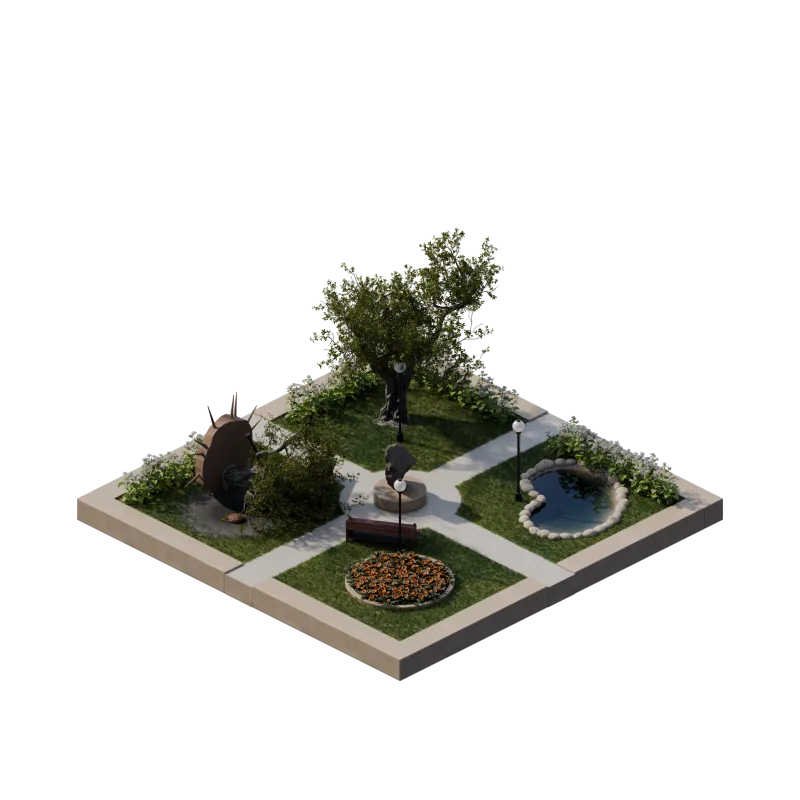
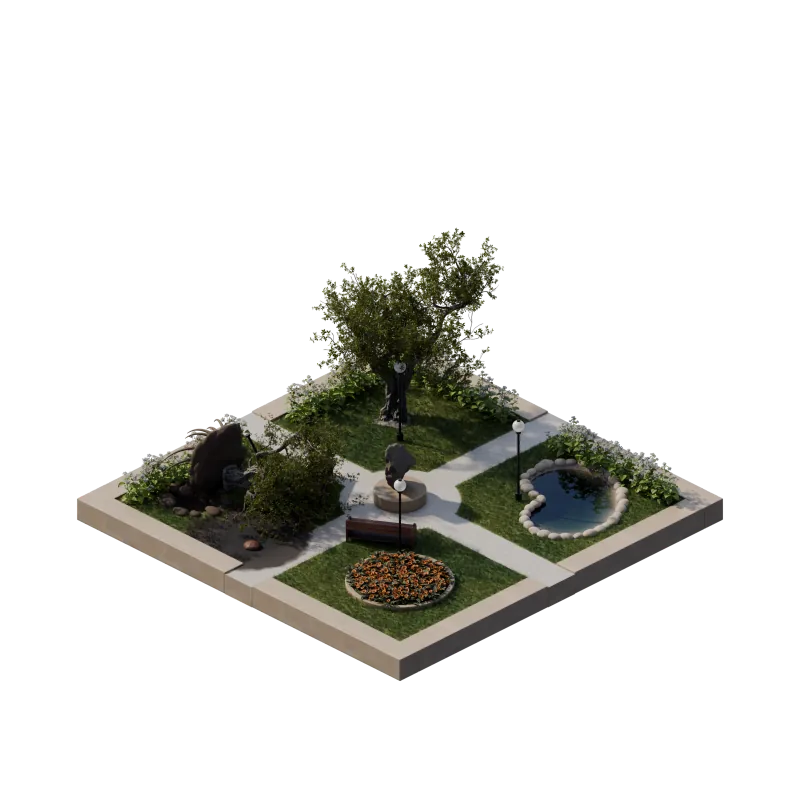
fix(C1): Park damaged — a ragged root mass, the hole it tore, a burn that chars the grass
- the root plate was a spiked disc: now a lumpy slab of dark soil stood up behind
  the trunk, nine roots that trail out from its rim and droop, tapering to a point,
  clods fallen round its foot
- the hole is cut out of the lawn in front of it, a dark bowl with a lip of soil
- the burn chars the lawn and its grass blades themselves (brown toward the
  edge, black at the heart, ragged), the soot decal is near-black, not grey ash
Re-rendered damaged (day, dusk, glow) at 256 samples.

Changed region(s): [[0.1875, 0.5, 0.4062, 0.7188], [0.625, 0.625, 0.6562, 0.6562]]

diff --git a/design/art/colony/park.py b/design/art/colony/park.py
@@ -38,7 +38,8 @@ RIM_TOP = 0.05  # the paved rim stands a kerb's height above the lawn, so the la
 LH = SPEC["lamps"]["height"]
 GR = 0.16
 FALLEN = 1  # the 4.2 m tree, front left: in `damaged` it lies across the south path
-SCORCH = (-2.6, -3.6, 1.7)  # x, y, r of the burn beside its root, on open lawn where the camera sees it
+SCORCH = (-1.3, -4.3, 1.9)  # x, y, r of the burn on open lawn in front of the fallen tree, where the camera sees it
+HOLE = (-3.8, -3.75, 0.7)  # x, y, r of the hole the root mass tore out of the lawn
 
 
 # ---------- layout geometry (shared by mesh, hair and shader) ----------
@@ -77,8 +78,29 @@ def bed_r(x, y):
 
 # ---------- materials ----------
 
-def grass_color(nt, P, state):
-    """Two photo lawns blended by a slow noise, patchy brightness, faint mowing stripes. Dry: toward straw."""
+def burn_mask(nt, P, burn):
+    """1 at the heart of a burn, 0 outside it, with a noise-ragged edge; from the shading point's distance in x, y."""
+    sep = node(nt, "ShaderNodeSeparateXYZ")
+    link(nt, P, sep.inputs[0])
+    dx, dy = math_(nt, "SUBTRACT", sep.outputs["X"], burn[0]), math_(nt, "SUBTRACT", sep.outputs["Y"], burn[1])
+    d = math_(nt, "DIVIDE", math_(nt, "SQRT", math_(nt, "ADD", math_(nt, "MULTIPLY", dx, dx), math_(nt, "MULTIPLY", dy, dy))), burn[2])
+    nz = node(nt, "ShaderNodeTexNoise")
+    nz.inputs["Scale"].default_value = 1.6
+    nz.inputs["Detail"].default_value = 6
+    link(nt, P, nz.inputs["Vector"])
+    d = math_(nt, "ADD", d, math_(nt, "MULTIPLY", math_(nt, "SUBTRACT", nz.outputs["Fac"], 0.5), 0.7))
+    mr = node(nt, "ShaderNodeMapRange")
+    mr.inputs["From Min"].default_value = 0.45
+    mr.inputs["From Max"].default_value = 1.0
+    mr.inputs["To Min"].default_value = 1.0
+    mr.inputs["To Max"].default_value = 0.0
+    link(nt, d, mr.inputs["Value"])
+    return mr.outputs[0]
+
+
+def grass_color(nt, P, state, burn=None):
+    """Two photo lawns blended by a slow noise, patchy brightness, faint mowing stripes. Dry: toward straw.
+    burn (x, y, r): the grass scorched brown toward the edge and black at the heart."""
     m1 = node(nt, "ShaderNodeMapping")
     m1.inputs["Scale"].default_value = (1 / 1.5, 1 / 1.5, 1)
     link(nt, P, m1.inputs["Vector"])
@@ -114,6 +136,10 @@ def grass_color(nt, P, state):
     c = mix(nt, 1.0, c, kk.outputs[0], "MULTIPLY")
     if state == "dry":  # unwatered for months: straw with green only in the damp patches
         c = mix(nt, math_(nt, "ADD", math_(nt, "MULTIPLY", ramp.outputs[0], 0.25), 0.62), c, (0.36, 0.29, 0.15, 1))
+    if burn:
+        k = burn_mask(nt, P, burn)
+        c = mix(nt, math_(nt, "MINIMUM", math_(nt, "MULTIPLY", k, 2.5), 1.0), c, (0.13, 0.085, 0.04, 1))  # scorched brown
+        c = mix(nt, math_(nt, "POWER", k, 0.6), c, (0.012, 0.011, 0.01, 1))  # charred black at the heart
     return c
 
 
@@ -126,10 +152,10 @@ def earth_color(nt, P):
     return mix(nt, 1.0, peb, (0.5, 0.38, 0.27, 1), "MULTIPLY")
 
 
-def ground_mat(state):
+def ground_mat(state, burn=None):
     m, nt, b = new_mat("ground")
     P = node(nt, "ShaderNodeTexCoord").outputs["Object"]
-    soil_or_grass = earth_color(nt, P) if state == "earth" else grass_color(nt, P, state)
+    soil_or_grass = earth_color(nt, P) if state == "earth" else grass_color(nt, P, state, burn)
     gm = node(nt, "ShaderNodeMapping")
     gm.inputs["Scale"].default_value = (0.5, 0.5, 1)
     link(nt, P, gm.inputs["Vector"])
@@ -177,7 +203,7 @@ def ground_mat(state):
     return m
 
 
-def hair_mat(state):
+def hair_mat(state, burn=None):
     m, nt, b = new_mat("grass_blades")
     P = node(nt, "ShaderNodeTexCoord").outputs["Object"]
     hi = node(nt, "ShaderNodeHairInfo")
@@ -185,7 +211,7 @@ def hair_mat(state):
     tip.inputs["To Min"].default_value = 0.7
     tip.inputs["To Max"].default_value = 1.3
     link(nt, hi.outputs["Intercept"], tip.inputs["Value"])
-    g = mix(nt, 1.0, grass_color(nt, P, state), (1.0, 1.04, 0.92, 1), "MULTIPLY")
+    g = mix(nt, 1.0, grass_color(nt, P, state, burn), (1.0, 1.04, 0.92, 1), "MULTIPLY")
     t3 = node(nt, "ShaderNodeCombineColor")
     for i in range(3):
         link(nt, tip.outputs[0], t3.inputs[i])
@@ -283,8 +309,9 @@ def rim():
         block("rim_gap", x0, x1, -PW, PW, zb, -0.004, stone, bevel=0)
 
 
-def ground(state, grass, bald=None):
-    """One fine grid, lawn (or earth) and gravel told apart by the shader; hair grass where the lawn is."""
+def ground(state, grass, bald=None, hole=None):
+    """One fine grid, lawn (or earth) and gravel told apart by the shader; hair grass where the lawn is.
+    bald (x, y, r): a burn, scorching the lawn and blades and thinning them at its heart. hole (x, y, r): cut out."""
     n = 240
     step = TILE / n
     vid, verts, faces = {}, [], []
@@ -292,6 +319,8 @@ def ground(state, grass, bald=None):
     def keep(cx, cy):
         if (abs(cx) > INNER or abs(cy) > INNER) and min(abs(cx), abs(cy)) > PW:
             return False  # under the raised rim
+        if hole and math.hypot(cx - hole[0], cy - hole[1]) < hole[2]:
+            return False
         return pond_r(cx, cy) >= 1.03 and bed_r(cx, cy) >= BED["radius"] + 0.06
 
     def vi(i, j):
@@ -304,14 +333,14 @@ def ground(state, grass, bald=None):
         for i in range(n):
             if keep(-HALF + (i + 0.5) * step, -HALF + (j + 0.5) * step):
                 faces.append((vi(i, j), vi(i + 1, j), vi(i + 1, j + 1), vi(i, j + 1)))
-    lawn = mesh_obj("ground", verts, faces, ground_mat(state))
+    lawn = mesh_obj("ground", verts, faces, ground_mat(state, bald))
     uvl = lawn.data.uv_layers.new(name="UVMap")
     for l in lawn.data.loops:
         x, y, _ = lawn.data.vertices[l.vertex_index].co
         uvl.data[l.index].uv = ((x + HALF) / TILE, (y + HALF) / TILE)
     if not grass:
         return lawn
-    lawn.data.materials.append(hair_mat(state))
+    lawn.data.materials.append(hair_mat(state, bald))
     vg = lawn.vertex_groups.new(name="grass")
     for v in lawn.data.vertices:
         x, y, _ = v.co
@@ -320,7 +349,9 @@ def ground(state, grass, bald=None):
             w = 0.0
         if bald:  # burnt off, with a ragged edge
             d = math.hypot(x - bald[0], y - bald[1]) / bald[2] + 0.25 * noise.noise(Vector((x * 1.7, y * 1.7, 0.5)))
-            w *= max(0.0, min(1.0, (d - 0.5) / 0.25))
+            w *= max(0.0, min(1.0, (d - 0.3) / 0.3))  # the heart burnt to the soil; the rest stands, charred
+        if hole and math.hypot(x - hole[0], y - hole[1]) < hole[2] + 0.15:
+            w = 0.0
         vg.add([v.index], w, "REPLACE")
     lawn.modifiers.new("grass", "PARTICLE_SYSTEM")
     ps = lawn.particle_systems[0]
@@ -504,38 +535,68 @@ def flower_bed(planted=True, wilted=False):
     translucent(m, 0.2, 1.15)
 
 
+def lump(name, at, size, m, seed, rough=0.35, sub=3):
+    """An irregular clod: an icosphere scaled to size and pushed about by noise."""
+    bpy.ops.mesh.primitive_ico_sphere_add(subdivisions=sub, radius=1.0, location=at)
+    o = bpy.context.active_object
+    o.name = name
+    off = Vector((seed * 3.1, seed * 1.7, seed * 0.9))
+    for v in o.data.vertices:
+        p = v.co.copy()
+        v.co = Vector((p.x * size[0], p.y * size[1], p.z * size[2])) * (1 + rough * noise.noise(p * 1.8 + off) + 0.5 * rough * noise.noise(p * 4.5 + off))
+    o.data.materials.append(m)
+    o.data.shade_smooth()
+    return o
+
+
 def root_plate(x, y, fall):
-    """The torn-up root plate: a disc of earth stood on edge at the trunk's foot, facing back the way the tree fell,
-    root strands sticking out of its rim, and the dark hole it tore in the lawn."""
+    """The torn-up root mass: a ragged slab of dark soil stood up behind the trunk, a few bent, tapering roots
+    trailing out of it, clods fallen round its foot, and the hole it tore in the lawn (HOLE, cut from the grid)."""
     back = Vector((-fall.x, -fall.y, 0)).normalized()
-    earth = mat("earth")
-    bpy.ops.mesh.primitive_cylinder_add(vertices=28, radius=1.05, depth=0.28, location=(x + back.x * 0.15, y + back.y * 0.15, 0.95))
-    rp = bpy.context.active_object
-    rp.name = "root_plate"
-    for v in rp.data.vertices:
-        v.co.x *= 1 + 0.18 * noise.noise(v.co * 2.3)
-        v.co.y *= 1 + 0.18 * noise.noise(v.co * 2.3 + Vector((3, 1, 0)))
-    rp.rotation_mode = "QUATERNION"
-    rp.rotation_quaternion = Vector((0, 0, 1)).rotation_difference(back)
-    rp.data.materials.append(earth)
-    roots = flat("roots", (0.16, 0.11, 0.07), 0.9)
-    rng = random.Random(3)
-    for k in range(14):
-        a = 2 * math.pi * k / 14 + rng.uniform(-0.2, 0.2)
-        side = Vector((-back.y, back.x, 0))
-        d = (side * math.cos(a) + Vector((0, 0, 1)) * math.sin(a)).normalized()
-        L = rng.uniform(0.5, 0.95)
-        base = Vector((x + back.x * 0.15, y + back.y * 0.15, 0.95)) + d * 0.95
-        tip = base + (d + back * rng.uniform(-0.3, 0.4)).normalized() * L
-        if tip.z < 0.02:
-            continue
-        bpy.ops.mesh.primitive_cone_add(vertices=6, radius1=0.05, radius2=0.008, depth=L, location=(base + tip) / 2)
-        r = bpy.context.active_object
-        r.name = "root"
-        r.rotation_euler = (tip - base).to_track_quat("Z", "Y").to_euler()
-        r.data.materials.append(roots)
-    hole = cyl("root_hole", x + back.x * 0.9, y + back.y * 0.9, 0.85, -0.05, 0.015, mat("earth"), 28)
-    hole.scale = (1.0, 0.8, 1.0)
+    side = Vector((-back.y, back.x, 0))
+    soil = soil_mat()
+    c = Vector((x, y, 0.0)) + back * 0.35
+    mass = lump("root_mass", (c.x, c.y, 0.8), (0.32, 1.05, 0.85), soil, 1.0, 0.3, 4)
+    mass.rotation_euler = (0, 0, math.atan2(back.y, back.x))  # its thin axis along the line of the fall
+    roots = flat("roots", (0.12, 0.085, 0.055), 0.9)
+    rng = random.Random(5)
+    for k in range(9):
+        a = math.pi * (0.1 + 0.8 * k / 8) + rng.uniform(-0.15, 0.15)  # round the upper rim, not the buried edge
+        rim = (side * math.cos(a) + Vector((0, 0, 1)) * math.sin(a)).normalized()
+        p0 = Vector((c.x, c.y, 0.8)) + rim * rng.uniform(0.65, 0.8) + back * 0.12
+        L = rng.uniform(0.7, 1.3)
+        # trailing out sideways and back from the rim, then drooping under their own weight: never sticking up
+        out = (side * math.cos(a) * 1.0 + back * 0.7 + Vector((0, 0, 0.15))).normalized()
+        p1 = p0 + out * L * 0.5
+        p2 = p1 + (out + Vector((0, 0, -1.2))).normalized() * L * 0.5
+        cu = bpy.data.curves.new("root", "CURVE")
+        cu.dimensions = "3D"
+        cu.bevel_depth = 0.045
+        cu.bevel_resolution = 2
+        sp = cu.splines.new("NURBS")
+        sp.points.add(2)
+        for pt, q, r in zip(sp.points, (p0, p1, p2), (1.0, 0.6, 0.12)):
+            pt.co = (q.x, q.y, max(q.z, 0.03), 1)
+            pt.radius = r  # tapering to a point
+        sp.use_endpoint_u = True
+        sp.order_u = 3
+        o = bpy.data.objects.new("root", cu)
+        coll().objects.link(o)
+        cu.materials.append(roots)
+    for k in range(7):  # clods at its foot
+        q = c + side * rng.uniform(-1.0, 1.0) + back * rng.uniform(-0.3, 0.8)
+        s_ = rng.uniform(0.12, 0.28)
+        lump("clod", (q.x, q.y, s_ * 0.5), (s_, s_ * 0.9, s_ * 0.7), soil, k + 7, 0.4, 2)
+    hx, hy, hr = HOLE  # the hole: a dark bowl under the cut in the lawn, a lip of thrown-up soil round it
+    seg = 32
+    ring = lambda r, z: [(hx + r * math.cos(2 * math.pi * i / seg), hy + r * math.sin(2 * math.pi * i / seg), z) for i in range(seg)]  # noqa: E731
+    v = [(hx, hy, -0.4)] + ring(hr * 0.6, -0.3) + ring(hr + 0.02, 0.0)
+    f = [(0, 1 + i, 1 + (i + 1) % seg) for i in range(seg)] + [(1 + i, 1 + seg + i, 1 + seg + (i + 1) % seg, 1 + (i + 1) % seg) for i in range(seg)]
+    mesh_obj("root_hole", v, f, soil, smooth=True)
+    for k in range(10):
+        a = 2 * math.pi * k / 10 + rng.uniform(-0.2, 0.2)
+        s_ = rng.uniform(0.12, 0.22)
+        lump("hole_lip", (hx + (hr + 0.1) * math.cos(a), hy + (hr + 0.1) * math.sin(a), 0.02), (s_ * 1.4, s_, s_ * 0.5), soil, k + 20, 0.3, 2)
 
 
 def trees(state):
@@ -696,7 +757,7 @@ def build(stage):
         kits.work_light(4.6, -1.0, (0, 0))
         return
     closed, damaged = stage == "closed", stage == "damaged"
-    ground("dry" if closed else "green", grass=True, bald=SCORCH if damaged else None)
+    ground("dry" if closed else "green", grass=True, bald=SCORCH if damaged else None, hole=HOLE if damaged else None)
     rock_mat = monument()
     pond(rock_mat, murky=closed)
     flower_bed(wilted=closed)

diff --git a/design/art/colony/lib/kits.py b/design/art/colony/lib/kits.py
@@ -337,7 +337,7 @@ def scorch(x, y, r, z=ZT + 0.004, strong=False):
     a = math_(nt, "MULTIPLY", math_(nt, "SUBTRACT", math_(nt, "MULTIPLY", gr.outputs["Fac"], k_[0]), math_(nt, "MULTIPLY", nz.outputs["Fac"], k_[1])), k_[2], True)
     if strong:  # grey ash toward the edge, black at the heart
         ash = math_(nt, "MULTIPLY", gr.outputs["Fac"], 1.4, True)
-        link(nt, mix(nt, ash, (0.16, 0.15, 0.14, 1), (0.012, 0.011, 0.01, 1)), b.inputs["Base Color"])
+        link(nt, mix(nt, ash, (0.055, 0.045, 0.035, 1), (0.01, 0.009, 0.008, 1)), b.inputs["Base Color"])
     tr = node(nt, "ShaderNodeBsdfTransparent")
     mx = node(nt, "ShaderNodeMixShader")
     link(nt, a, mx.inputs[0])
